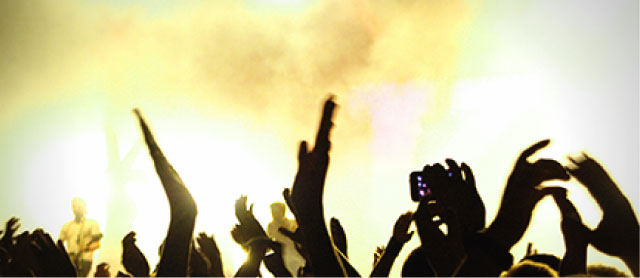
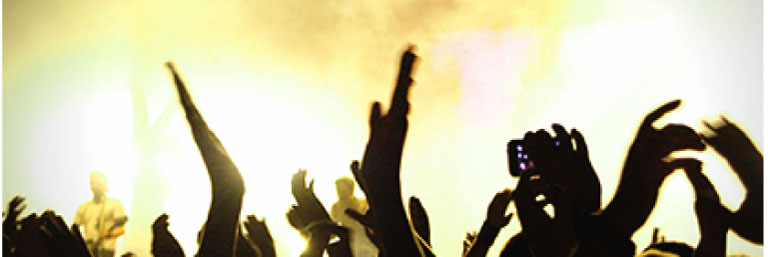
first responsive desktop styles on landing

diff --git a/client/index.html b/client/index.html
@@ -19,7 +19,7 @@
     <p class="browsehappy">You are using an <strong>outdated</strong> browser. Please <a href="http://browsehappy.com/">upgrade your browser</a> to improve your experience.</p>
   <![endif]-->
 
-  <header class="Header">
+  <header class="Header-Landing">
     <figure class="Header-Logo">
       <img src="assets/logo_header.png" alt="SfotiJS" />
     </figure>
@@ -69,37 +69,46 @@
 
   <section class="Marketing">
     <div class="Marketing-copy">
-      <figure>
+      <figure class="show-mobile">
         <img src="assets/landing_pic01.jpg" alt="Listening" />
-        <figCaption>
-          <h3>Listen</h3>
-          <p class="text-gray text-center">
-            Lorem iptsum dolor sit amet, consecteur adipiscing elit.
-          </p>
-        </figCaption>
       </figure>
+      <figure class="show-desktop">
+        <img src="assets/landing_pic01_desktop.jpg" alt="Listening" />
+      </figure>
+      <div class="Marketing-copy-text">
+        <h3>Listen</h3>
+        <p class="text-gray text-center">
+          Lorem iptsum dolor sit amet, consecteur adipiscing elit.
+        </p>
+      </div>
     </div>
     <div class="Marketing-copy">
-      <figure>
+      <figure class="show-mobile">
         <img src="assets/landing_pic02.jpg" alt="Listening" />
-        <figCaption>
-          <h3>Share</h3>
-          <p class="text-gray text-center">
-            Lorem iptsum dolor sit amet, consecteur adipiscing elit.
-          </p>
-        </figCaption>
       </figure>
+      <figure class="show-desktop">
+        <img src="assets/landing_pic02_desktop.jpg" alt="Listening" />
+      </figure>
+      <div class="Marketing-copy-text">
+        <h3>Share</h3>
+        <p class="text-gray text-center">
+          Lorem iptsum dolor sit amet, consecteur adipiscing elit.
+        </p>
+      </div>
     </div>
     <div class="Marketing-copy">
-      <figure>
+      <figure class="show-mobile">
         <img src="assets/landing_pic03.jpg" alt="Listening" />
-        <figCaption>
-          <h3>Create and follow playlists</h3>
-          <p class="text-gray text-center">
-            Lorem iptsum dolor sit amet, consecteur adipiscing elit.
-          </p>
-        </figCaption>
       </figure>
+      <figure class="show-desktop">
+        <img src="assets/landing_pic03_desktop.jpg" alt="Listening" />
+      </figure>
+      <div class="Marketing-copy-text">
+        <h3>Create and follow playlists</h3>
+        <p class="text-gray text-center">
+          Lorem iptsum dolor sit amet, consecteur adipiscing elit.
+        </p>
+      </div>
     </div>
   </section>
 

diff --git a/client/css/main.css b/client/css/main.css
@@ -199,13 +199,18 @@ body {
   font-family: 'Varela Round';
   font-size: 16px;
 }
-.Header {
+.Header-Landing {
   background: url("../assets/bg_header.jpg") center center;
   background-size: cover;
   background-position: 38em 0;
   color: #fff;
   text-align: center;
   height: 100vh;
+}
+@media screen and (min-width: 650px) {
+  .Header-Landing {
+    background-position: center center;
+  }
 }
 .Header-Logo {
   margin: 0 auto;
@@ -215,9 +220,21 @@ body {
 .Header-Logo img {
   width: 100%;
 }
+@media screen and (min-width: 768px) {
+  .Header-Logo {
+    width: 250px;
+  }
+}
 .Header-copy {
   margin: 1em;
   font-size: 1.5em;
+}
+@media screen and (min-width: 950px) {
+  .Header-copy {
+    font-size: 3em;
+    width: 600px;
+    margin: 0 auto;
+  }
 }
 .Sociallogin ul {
   list-style-type: none;
@@ -261,13 +278,49 @@ body {
   width: 100%;
   border-bottom: 1px solid #dfdfdf;
 }
-.Marketing-copy figure img {
-  max-width: 100%;
-  height: auto;
+@media screen and (min-width: 750px) {
+  .Marketing {
+    width: 750px;
+    margin: 0 auto;
+  }
 }
-.Marketing-copy h3 {
+.Marketing-copy figure img {
+  width: 100%;
+}
+.Marketing-copy-text h3 {
   text-align: center;
   margin: 0.5em;
+}
+@media screen and (min-width: 750px) {
+  .Marketing-copy figure {
+    width: 200px;
+    height: 200px;
+    overflow: hidden;
+    border-radius: 100%;
+  }
+  .Marketing-copy:nth-child(even) .Marketing-copy-text {
+    position: relative;
+    left: -200px;
+  }
+  .Marketing-copy:nth-child(even) figure {
+    position: relative;
+    left: 500px;
+  }
+  .Marketing-copy-text {
+    font-size: 1.2em;
+    display: inline-block;
+    width: 500px;
+    position: relative;
+    top: -4em;
+  }
+  .Marketing-copy-text h3 {
+    text-align: left;
+    margin-left: 2em;
+  }
+  .Marketing-copy-text p {
+    text-align: left !important;
+    margin-left: 2.4em;
+  }
 }
 .Footer {
   background: #333;
@@ -370,4 +423,15 @@ body {
 }
 .text-2x {
   font-size: 1.5em;
+}
+.show-desktop {
+  display: none;
+}
+@media screen and (min-width: 750px) {
+  .show-mobile {
+    display: none;
+  }
+  .show-desktop {
+    display: inline-block;
+  }
 }
